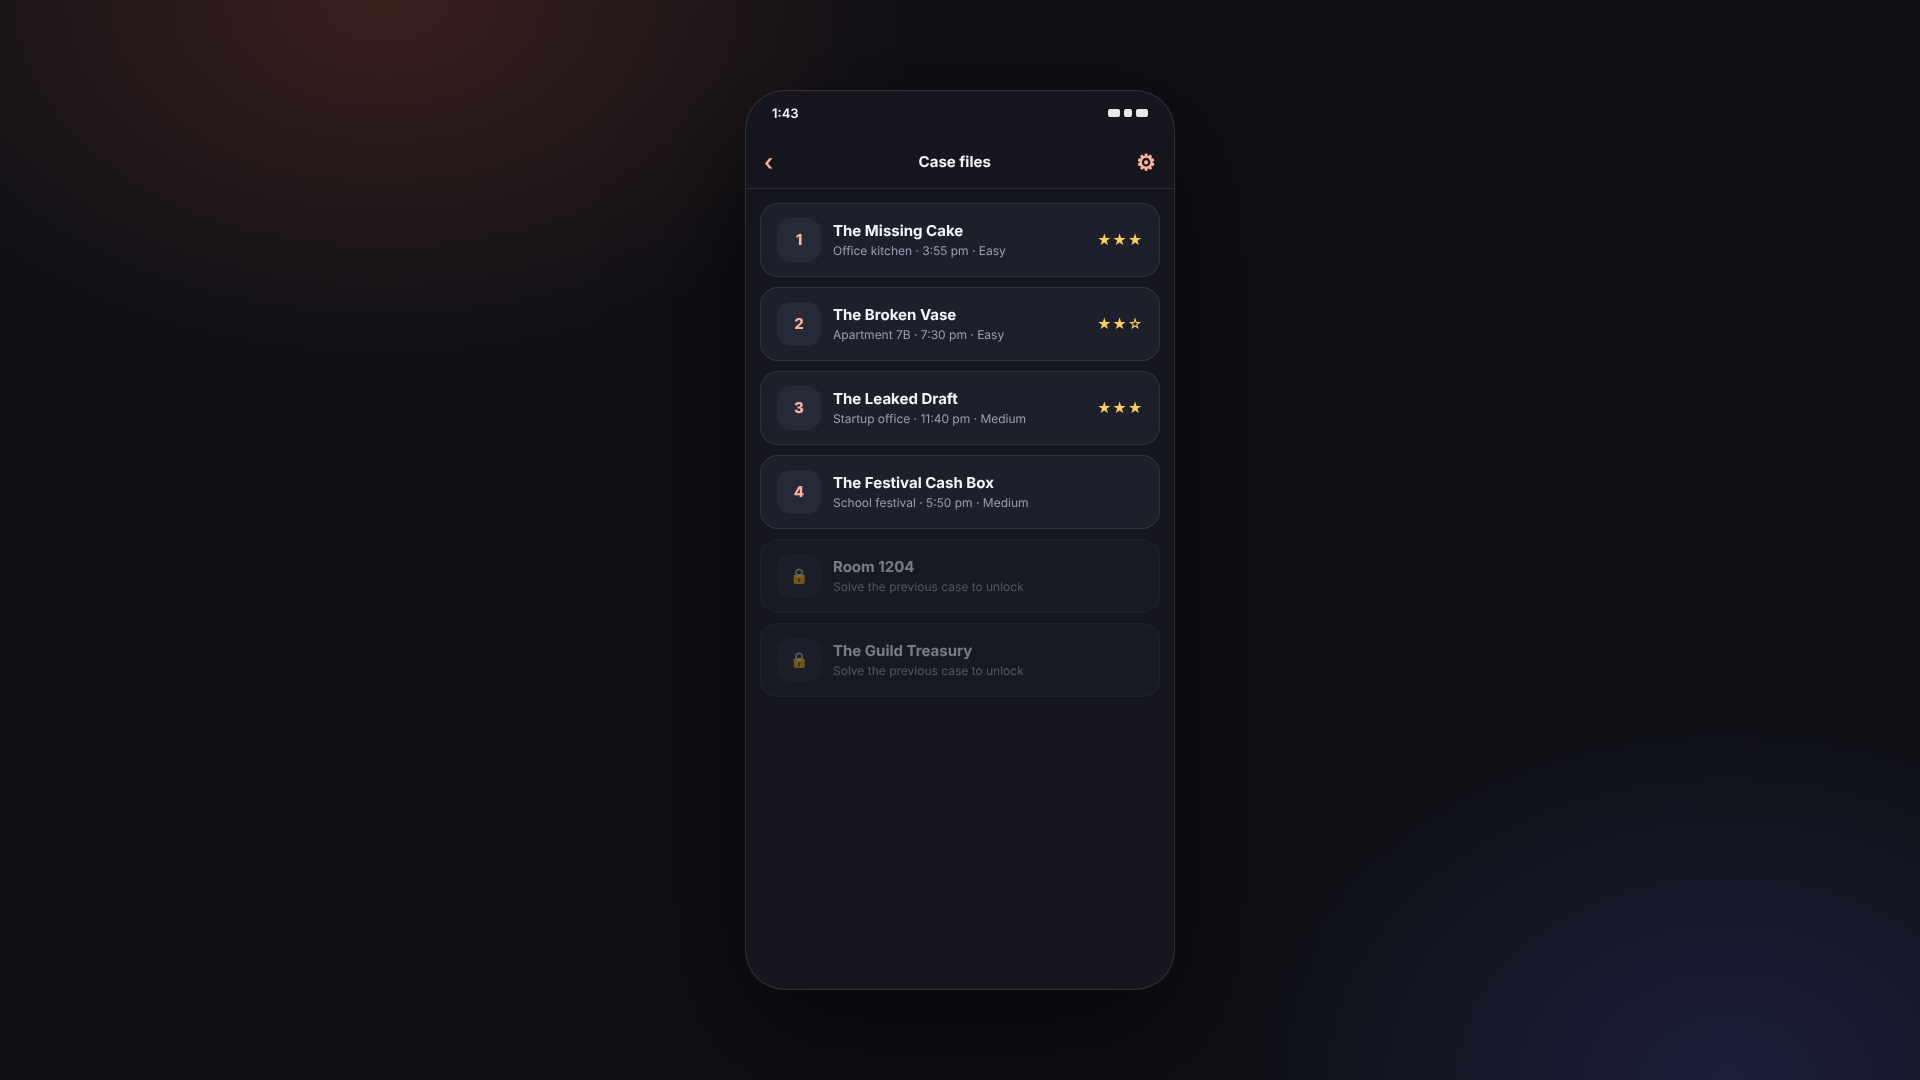
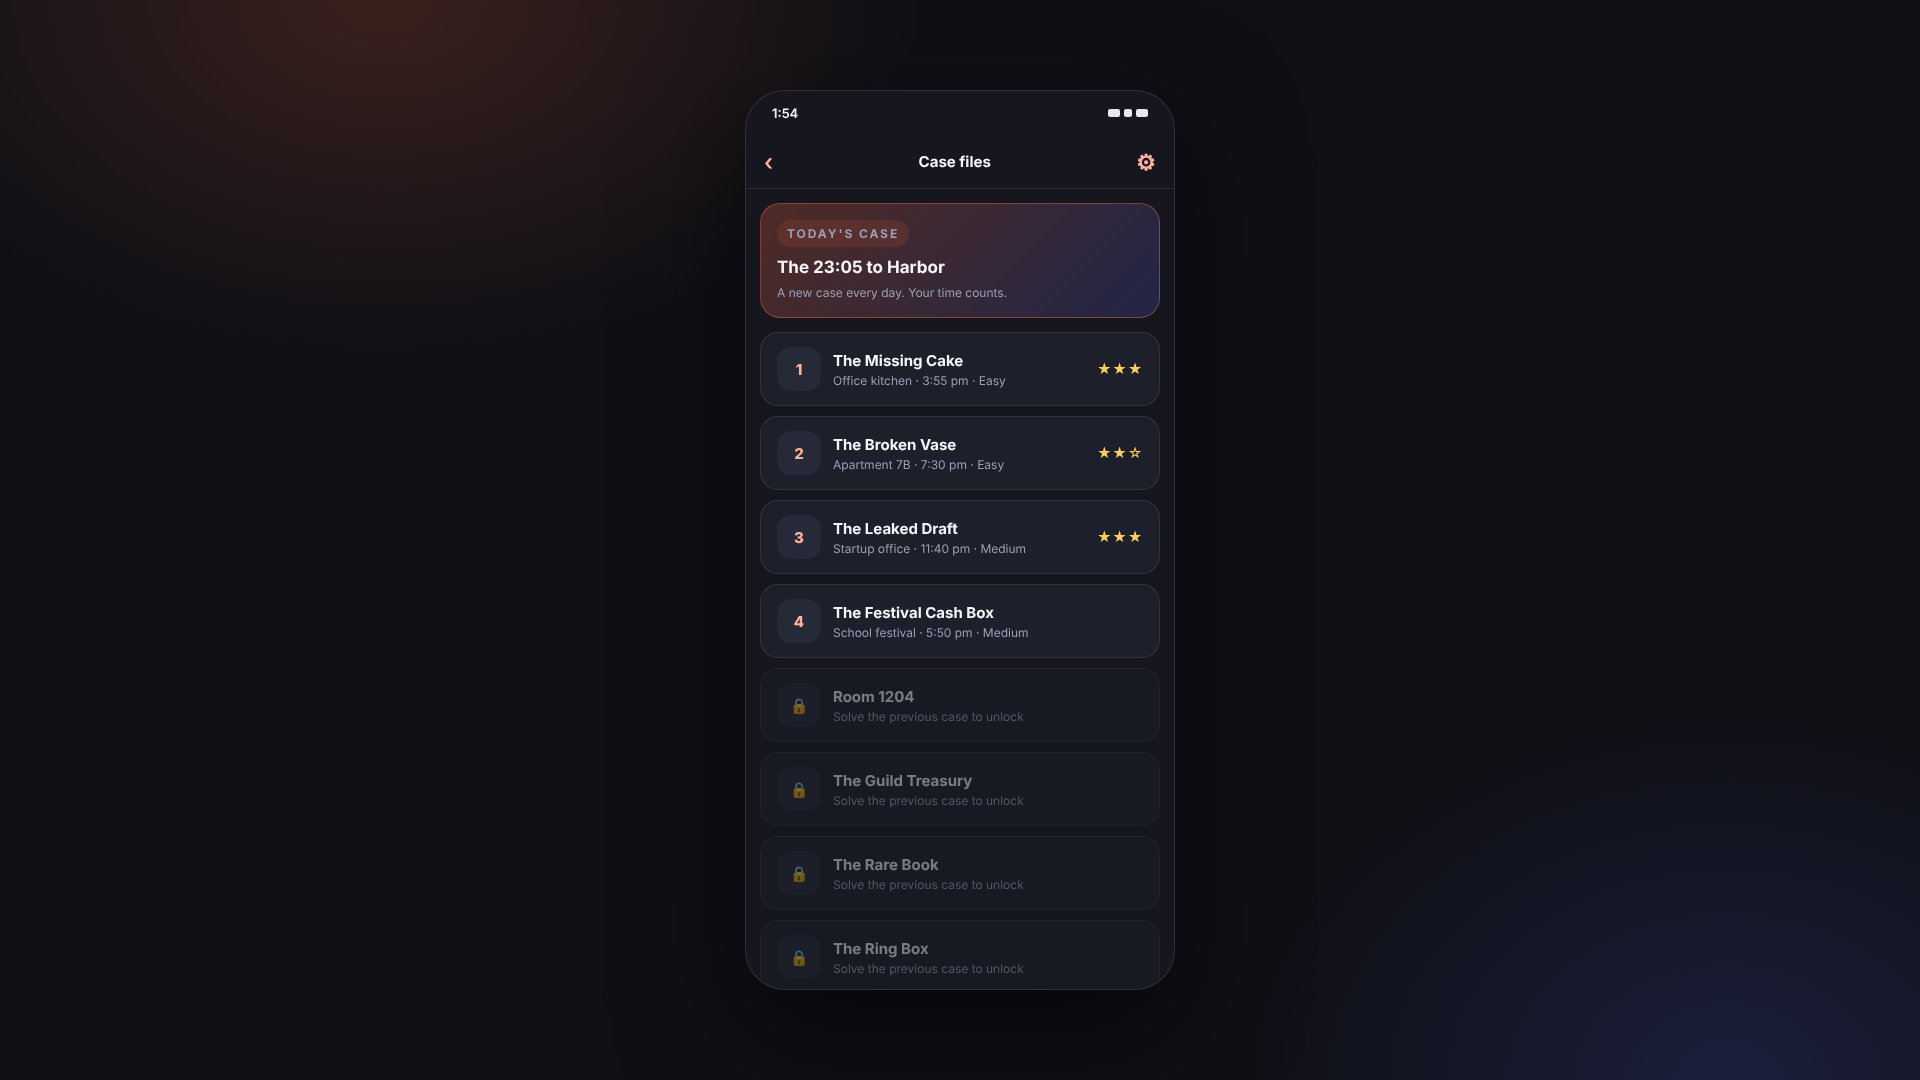
알리바이: 사건 12개로 확장(팩 A·C), 문서·등록 문구 갱신, 스크린샷 재촬영
Claude-Session: https://claude.ai/code/session_01GtvmLdhHeiEetnrQffLSpt

diff --git a/games/alibi/README.md b/games/alibi/README.md
@@ -3,13 +3,19 @@
 탐정의 휴대폰에서 **단체 채팅과 증거를 대조해 거짓말을 찾아내는 추리 게임**입니다. 웹게임 포털 출시를 목표로 만들었습니다.
 `index.html`을 브라우저로 열면 바로 플레이할 수 있습니다. 한국어와 영어를 지원합니다.
 
+## 그 밖의 기능
+- **오늘의 사건**: 날짜로 정해지는 사건 하나. 시간이 기록되고 연속 일수가 쌓입니다. 잠금과 상관없이 플레이 가능
+- **타이머와 최고 기록**: 사건마다 가장 빠른 시간 저장
+- **용의자 탭**: 각 사람의 주장을 한눈에, 찾은 거짓말은 초록색
+- **기록 복사**: 결과 화면에서 공유 문구 복사
+
 ## 규칙
 1. 채팅에서 수상한 말을 눌러 **거짓말로 표시**합니다. 증거 탭의 사실과 어긋나는 말이 거짓말입니다.
 2. 거짓말이 아닌 말을 표시하면 실수 1회. 실수 3회면 사건이 처음부터 시작됩니다.
 3. 거짓말을 모두 찾으면 **범인 지목**이 열립니다. 틀린 사람을 지목해도 실수 1회.
 4. 별 점수: 실수와 힌트가 없으면 ★3, 실수·힌트 각 1회 이하면 ★2, 그 외 ★1.
 
-## 사건 6개
+## 사건 12개
 | # | 사건 | 난이도 | 거짓말 | 반전 |
 | --- | --- | --- | --- | --- |
 | 1 | 사라진 케이크 | 쉬움 | 2 | 튜토리얼 |
@@ -18,6 +24,15 @@
 | 4 | 축제 현금함 | 보통 | 3 | 한 사람이 두 번 거짓말 |
 | 5 | 1204호 | 어려움 | 2 | 카드키 기록을 우회하는 고장 난 문 |
 | 6 | 길드 금고 | 어려움 | 2 | 기록이 가리키는 계정은 피싱 피해자 |
+| 7 | 희귀 도서 | 보통 | 3 | 경비원의 자판기 영수증 |
+| 8 | 반지 상자 | 어려움 | 3 | 사진 촬영 목록이 알리바이 |
+| 9 | 옥상 텃밭 | 보통 | 2 | 바람 거짓말은 범인이 아님 |
+| 10 | 유출된 에피소드 | 어려움 | 2 | 기록의 노트북은 빌려 간 것 |
+| 11 | 식은 오븐 | 쉬움 | 2 | 경보 해제 코드 |
+| 12 | 23시 5분 하버행 | 어려움 | 2 | 비슷한 가방은 미끼 |
+
+사건 1~6은 `js/cases.js`, 7~8은 `js/cases-a.js`, 9~10은 `js/cases-b.js`, 11~12는 `js/cases-c.js`에 있습니다.
+`node games/alibi/tools/lint-cases.mjs`로 모든 사건의 구조와 공정성 규칙(거짓말 2개 이상, 범인도 거짓말, 두 언어 구조 일치 등)을 검사합니다.
 
 ## 광고 (포털 빌드에서만)
 | 위치 | 종류 |
@@ -35,14 +50,15 @@ node games/alibi/build.mjs crazygames # 하나만
 결과물은 `games/alibi/dist/alibi-<대상>.zip`(약 360KB, 폰트 내장). 대상은 `crazygames`, `poki`, `itch`, `web`.
 
 ## 사건 추가하기
-`js/cases.js`의 `CASES.en`과 `CASES.ko`에 같은 `id`로 하나씩 추가하면 끝입니다. 규칙 두 가지만 지키면 됩니다.
+새 파일 `js/cases-d.js`에 `CASES.en.push(...)`, `CASES.ko.push(...)`로 같은 `id`를 추가하고 `index.html`에 스크립트 태그를 넣으면 끝입니다. 추가한 뒤 `node games/alibi/tools/lint-cases.mjs`를 돌리세요. 규칙 두 가지만 지키면 됩니다.
 - 모든 `lie`는 같은 사건의 `facts` 중 하나와 분명히 어긋나야 합니다.
 - `culprit`은 증거만으로 한 명으로 좁혀져야 합니다. 거짓말을 한 사람이 둘 이상이면 좋습니다.
 
 ## 코드 구조
 | 파일 | 내용 |
 | --- | --- |
-| `js/cases.js` | 사건 6개 (한국어·영어) |
+| `js/cases.js`, `cases-a/b/c.js` | 사건 12개 (한국어·영어) |
+| `tools/lint-cases.mjs` | 사건 구조·공정성 검사 |
 | `js/i18n.js` | 언어, 인터페이스 문구 |
 | `js/game.js` | 진행, 판정, 별 점수, 힌트, 저장. DOM 없음 |
 | `js/ui.js` | 화면: 타이틀, 사건 목록, 사건, 결과, 설정, 효과음 |

diff --git a/games/alibi/store/listing.md b/games/alibi/store/listing.md
@@ -5,8 +5,8 @@
 - 한국어: **알리바이 ALIBI — 거짓말을 잡아라**
 
 ## 짧은 설명
-- EN: Read the group chat, check it against the evidence, mark the lies and accuse the culprit. Six cases, five minutes each.
-- KO: 단체 채팅을 읽고 증거와 대조해 거짓말을 표시하고 범인을 지목하세요. 사건 6개, 하나에 5분.
+- EN: Read the group chat, check it against the evidence, mark the lies and accuse the culprit. Twelve cases, five minutes each, plus a daily case.
+- KO: 단체 채팅을 읽고 증거와 대조해 거짓말을 표시하고 범인을 지목하세요. 사건 12개, 하나에 5분. 오늘의 사건도.
 
 ## 긴 설명 — English
 Everyone in the chat has a story. The evidence only agrees with some of them.
@@ -14,7 +14,8 @@ Everyone in the chat has a story. The evidence only agrees with some of them.
 ALIBI is a deduction game played on a detective's phone. Each case gives you a group chat, a handful of facts (badge logs, receipts, CCTV, weather) and a few suspects. Tap a message that doesn't match the evidence and mark it as a lie. Find every lie, then accuse. Three mistakes and the case starts over.
 
 **Features**
-- 6 cases with rising difficulty: an office kitchen, an apartment, a startup leak, a school festival, a hotel floor, a game guild
+- 12 cases with rising difficulty: an office kitchen, an apartment, a startup leak, a school festival, a hotel, a game guild, a library, a wedding, a rooftop garden, a podcast studio, a bakery, a late train
+- A daily case with a timer and a streak
 - Every lie is contradicted by something in the case: no guessing, no outside knowledge
 - Twists: the person who lies the most isn't always the culprit
 - Star ratings for clean solves, hints when you're stuck
@@ -32,7 +33,8 @@ ALIBI is a deduction game played on a detective's phone. Each case gives you a g
 알리바이는 탐정의 휴대폰에서 하는 추리 게임입니다. 사건마다 단체 채팅, 몇 가지 사실(출입 기록, 영수증, CCTV, 날씨), 용의자 몇 명이 주어져요. 증거와 어긋나는 말을 눌러 거짓말로 표시하세요. 거짓말을 다 찾으면 범인을 지목합니다. 실수 세 번이면 처음부터.
 
 **특징**
-- 점점 어려워지는 사건 6개: 사무실 탕비실, 아파트, 스타트업 유출, 학교 축제, 호텔, 게임 길드
+- 점점 어려워지는 사건 12개: 사무실, 아파트, 스타트업, 학교 축제, 호텔, 게임 길드, 도서관, 결혼식, 옥상 텃밭, 팟캐스트, 빵집, 막차
+- 타이머와 연속 기록이 있는 오늘의 사건
 - 모든 거짓말은 사건 안의 무언가와 어긋납니다. 찍기도, 바깥 지식도 필요 없어요
 - 반전: 거짓말을 가장 많이 한 사람이 범인은 아닙니다
 - 깔끔하게 풀면 별 셋, 막히면 힌트

diff --git a/games/alibi/HANDOFF.md b/games/alibi/HANDOFF.md
@@ -1,6 +1,6 @@
 # 인수인계: 알리바이 ALIBI
 
-다른 채팅에서 이어서 작업할 때 이 문서를 먼저 읽어 주세요. 마지막 갱신: 2026-11-05
+다른 채팅에서 이어서 작업할 때 이 문서를 먼저 읽어 주세요. 마지막 갱신: 2026-11-05 (오후)
 
 ## 배경
 - 사용자가 "더 정교하고 새로운 컨셉의 게임"을 요청해 만든 네 번째 게임. 마지막 접속(노트북 방탈출)과 같은 방식으로 **휴대폰 UI 자체를 무대**로 써서 그림 없이도 현대적으로 보이게 했습니다.
@@ -12,15 +12,17 @@
 - 등록 문구와 이미지: `games/alibi/store/`
 
 ## 끝난 일
-- 사건 6개(난이도 3단계), 거짓말 표시·실수 3회·범인 지목·별 점수·힌트
+- 사건 12개(난이도 3단계), 거짓말 표시·실수 3회·범인 지목·별 점수·힌트
+- 오늘의 사건(연속 일수), 타이머와 최고 기록, 용의자별 주장 보기, 기록 복사
+- 사건 검증 도구 `tools/lint-cases.mjs`
 - 한국어·영어, CrazyGames·Poki 광고(힌트 보상형, 사건 사이 판 사이 광고), CrazyGames 계정 저장
-- PC·모바일에서 6개 사건 전부 자동 플레이, 실패 경로, 힌트, 오답 지목 테스트 통과, 오류 없음
+- PC·모바일에서 12개 사건 전부 자동 플레이, 실패 경로, 힌트, 오답 지목 테스트 통과, 오류 없음
 - 포털별 zip(약 360KB), 커버 6종, 스크린샷 5장
 
 **확인 못 한 것**: 진짜 CrazyGames SDK(이 환경에서 접속 불가), 사람이 직접 한 플레이.
 
 ## 다음 단계
-1. 사용자님이 직접 6개 사건을 플레이 (약 25분). 억지스러운 거짓말, 증거만으로 범인이 안 좁혀지는 사건이 있으면 알려 주세요.
+1. 사용자님이 직접 사건을 플레이 (12개, 약 50분). 억지스러운 거짓말, 증거만으로 범인이 안 좁혀지는 사건이 있으면 알려 주세요.
 2. `node games/alibi/build.mjs crazygames` → `games/alibi/dist/alibi-crazygames.zip`
 3. CrazyGames 포털 Submit a game. 값은 아래 표
 
@@ -41,10 +43,9 @@
 | Screenshots | `store/screens/1-chat.png` ~ `4-cases.png` |
 
 ## 개선 후보
-- 사건 추가 (사건당 텍스트 약 60줄, 두 언어). 포털에서 가장 효과 큰 업데이트
-- 일일 사건: 날짜로 사건을 고르는 모드
-- 용의자 탭에서 각 사람의 주장을 한눈에 모아 보기
-- 타이머 모드와 기록 공유
+- 사건 추가 (사건당 텍스트 약 60줄, 두 언어). 포털에서 가장 효과 큰 업데이트. `cases-d.js`부터
+- 오늘의 사건에 전 세계 공통 순위표 (서버 필요)
+- 사건 묶음(시즌)별 잠금 해제
 
 ## 작업 요령
 - 사건 구조와 공정성 규칙은 `README.md` "사건 추가하기"
